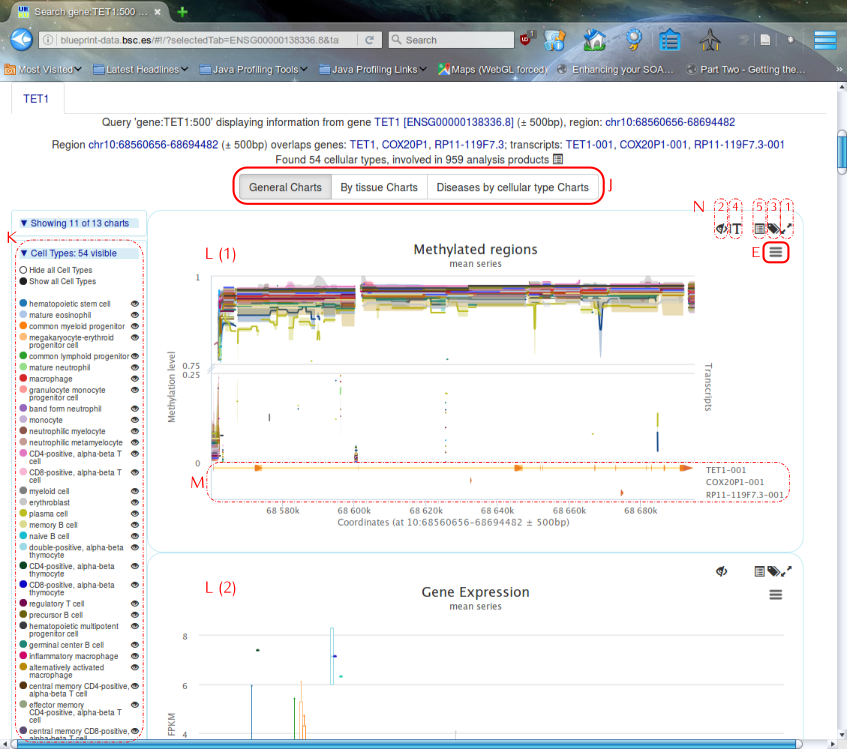
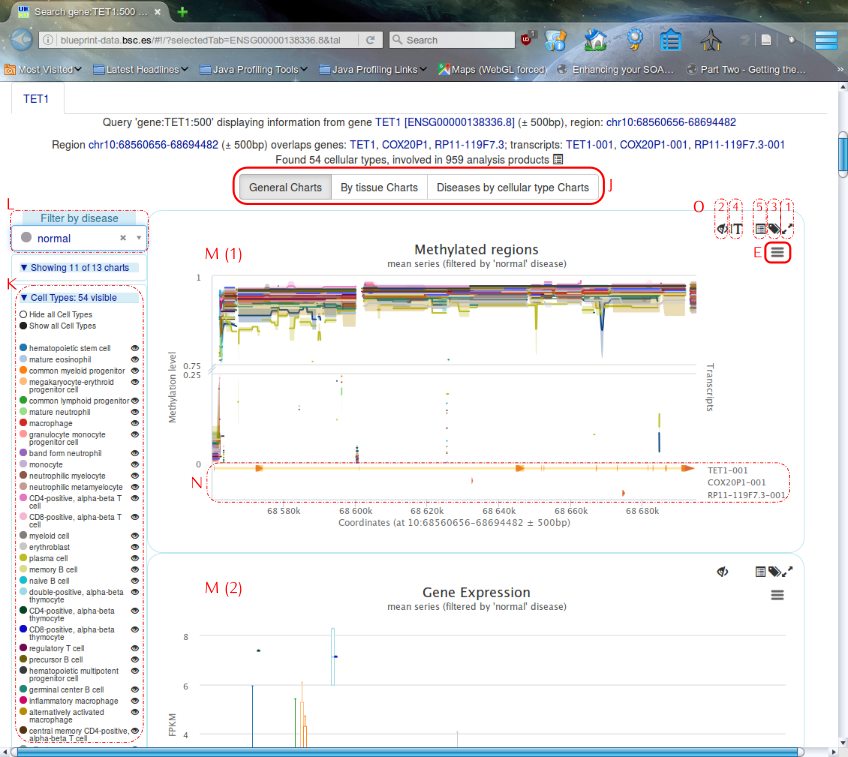
Updated first steps

diff --git a/app/views/first-steps.html b/app/views/first-steps.html
@@ -24,8 +24,9 @@
 		<div class="col-sm-4" style="padding-top:30px;">
 			<h3>
 				<ol type="A" start="10">
-					<li>There are several views which allow exploring the analysis data from different points of view. As of BDAP version 0.9.5, the available views are "General", "By tissue" and "Diseases by cellular type".</li>
+					<li>There are several views which allow exploring the analysis data from different points of view. As of BDAP version 0.9.6, the available views are "General", "By tissue" and "Diseases by cellular type".</li>
 					<li>Each cellular type with data on the query region is listed. Their data series can be switched on and off at once on all the charts. For each cellular type it is possible to see the names of the samples with data on the query region.</li>
+					<li>It is possible to focus on a specific disease’s analysis data in “General” and “By tissue” views.</li>
 					<li>Spline+ribbon-based scatter plots (1) are used for almost every chart type, such as the regulatory regions, methylation data and histone marks, showing the averaged series, minimum and maximum. Box-plot charts (2) are used for gene and transcript expression.</li>
 					<li>Transcripts, exons, UTRs, CDSs and TSSs (start and stop codons) are shown as special series in charts whose x axis represents chromosomical coordinates.</li>
 					<li>Each chart can be (1) maximized or restored; (2) hidden; (3) the chart legend can be shown / hidden; (4) switch view described in (M) between the condensed gene layout (for each gene, only the transcript from the principal isoform is shown) and the complete one (all the transcripts are shown); and (5) data supporting visible series in the chart can be browsed and saved.</li>
